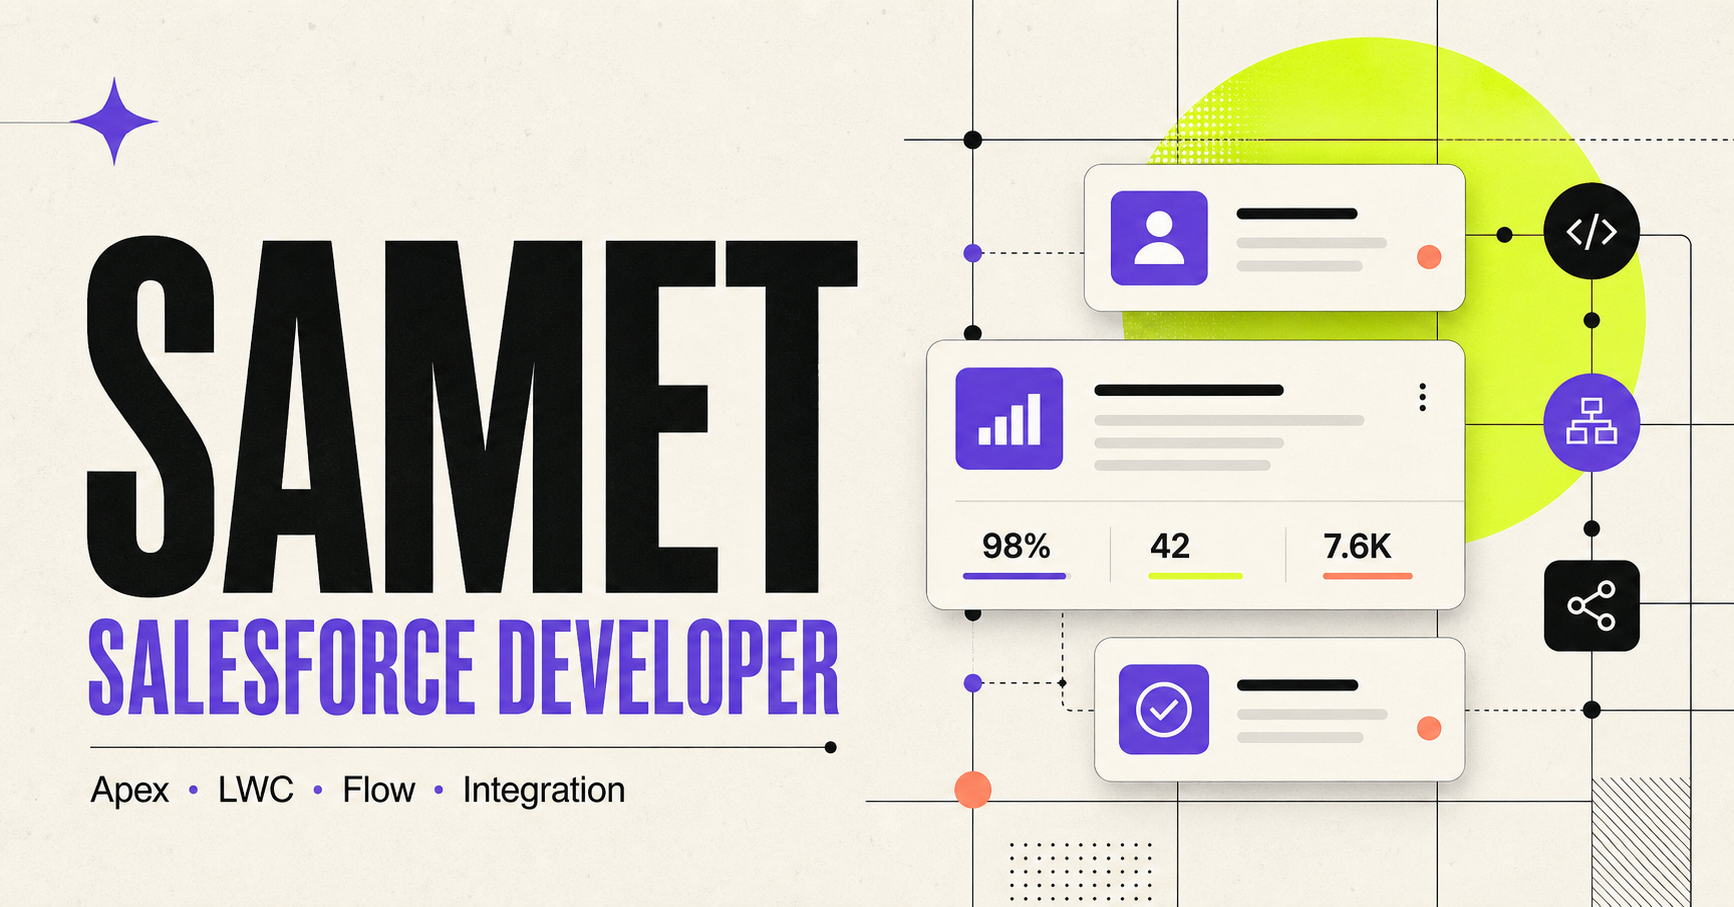
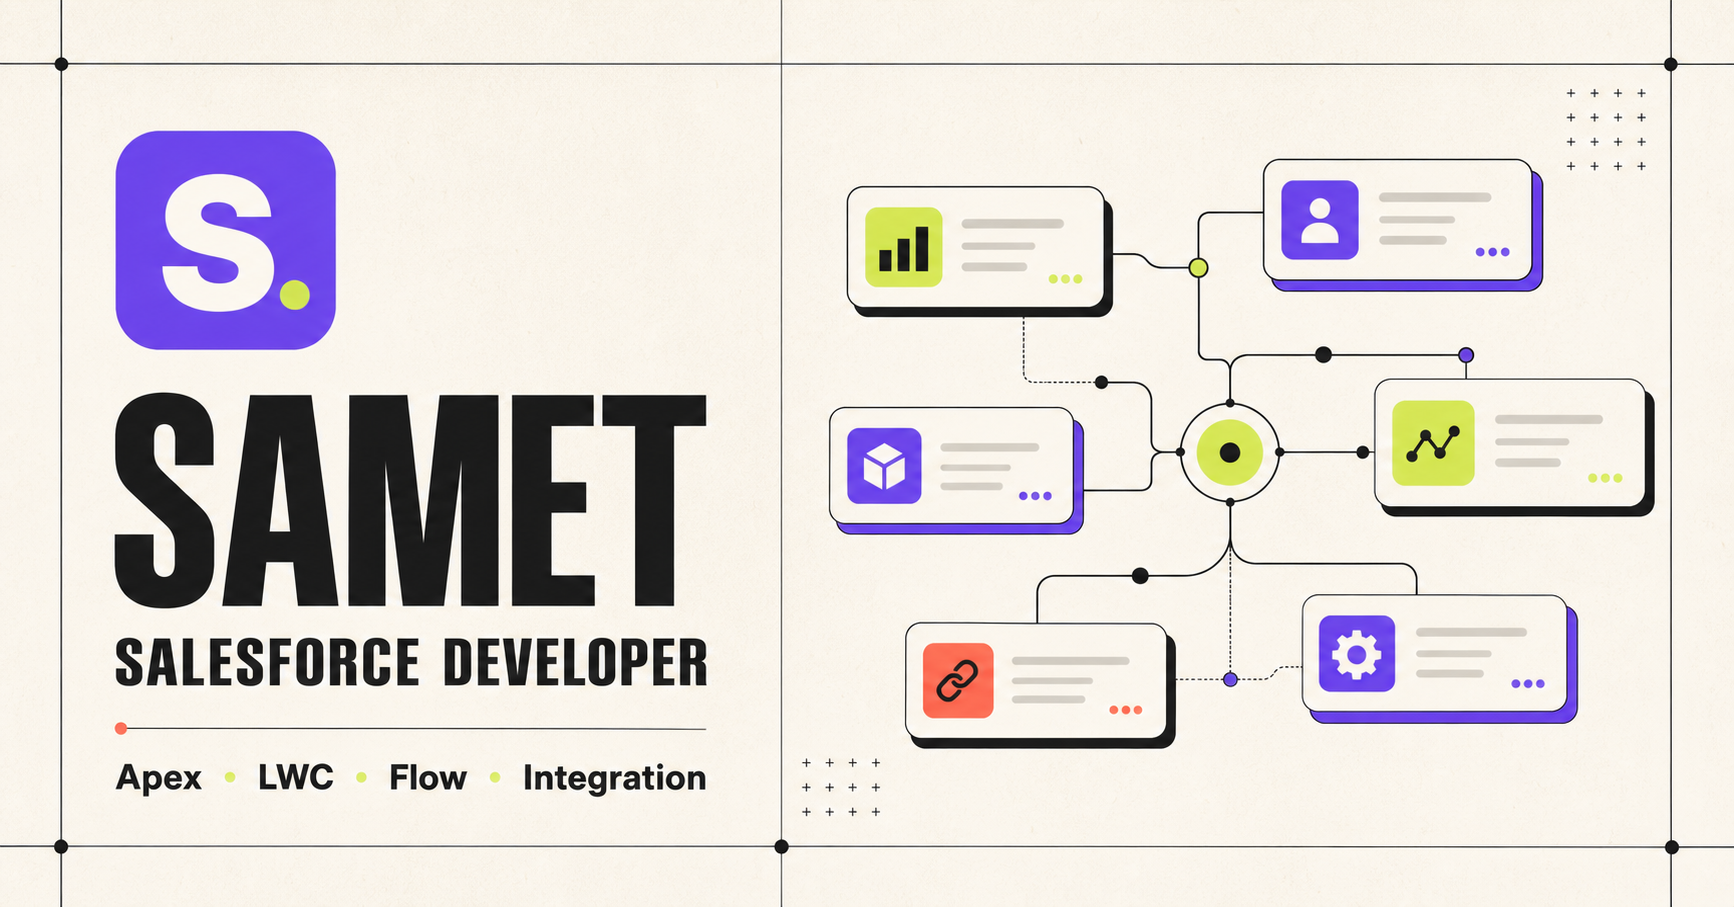
Add S brand identity and complete SEO

diff --git a/app/layout.tsx b/app/layout.tsx
@@ -14,25 +14,102 @@ const geistMono = Geist_Mono({
 
 export const metadata: Metadata = {
   metadataBase: new URL("https://aptus0.github.io"),
-  title: "Samet — Salesforce Developer",
+  title: {
+    default: "Samet | Salesforce Developer — Apex, LWC ve CRM",
+    template: "%s | Samet Salesforce Developer",
+  },
   description:
-    "Samet'in Salesforce, Apex, Lightning Web Components ve CRM otomasyonu portföyü.",
+    "Salesforce Developer Samet'in Apex, Lightning Web Components, Flow, Sales Cloud, Service Cloud ve CRM entegrasyonu projelerini keşfedin.",
+  applicationName: "Samet Salesforce Developer Portfolio",
+  authors: [{ name: "Samet", url: "https://aptus0.github.io" }],
+  creator: "Samet",
+  publisher: "Samet",
+  category: "technology",
+  keywords: [
+    "Salesforce Developer",
+    "Salesforce Geliştirici",
+    "Apex Developer",
+    "Lightning Web Components",
+    "LWC Developer",
+    "Salesforce Flow",
+    "Sales Cloud",
+    "Service Cloud",
+    "Experience Cloud",
+    "Salesforce Entegrasyonu",
+    "CRM Developer",
+    "İstanbul Salesforce Developer",
+    "Samet Salesforce",
+  ],
+  alternates: {
+    canonical: "/",
+    languages: { "tr-TR": "/" },
+  },
+  robots: {
+    index: true,
+    follow: true,
+    googleBot: {
+      index: true,
+      follow: true,
+      "max-image-preview": "large",
+      "max-snippet": -1,
+      "max-video-preview": -1,
+    },
+  },
+  referrer: "origin-when-cross-origin",
+  formatDetection: {
+    email: false,
+    address: false,
+    telephone: false,
+  },
   openGraph: {
-    title: "Samet — Salesforce Developer",
-    description: "Salesforce'u iş sonuçlarına dönüşen güçlü çözümlere dönüştürüyorum.",
+    title: "Samet | Salesforce Developer",
+    description: "Apex, LWC, Flow ve entegrasyonlarla iş sonuçları üreten Salesforce çözümleri.",
     type: "website",
     locale: "tr_TR",
-    images: [{ url: "/og.png", width: 1734, height: 907, alt: "Samet portföyü" }],
+    url: "/",
+    siteName: "Samet — Salesforce Developer",
+    images: [{ url: "/og.png", width: 1734, height: 907, alt: "Samet Salesforce Developer portföyü" }],
   },
   twitter: {
     card: "summary_large_image",
-    title: "Samet — Salesforce Developer",
-    description: "Salesforce'u iş sonuçlarına dönüşen güçlü çözümlere dönüştürüyorum.",
+    title: "Samet | Salesforce Developer",
+    description: "Apex, LWC, Flow ve entegrasyonlarla güçlü Salesforce çözümleri.",
     images: ["/og.png"],
   },
   icons: {
-    icon: "/favicon.svg",
+    icon: [{ url: "/favicon.svg", type: "image/svg+xml" }],
     shortcut: "/favicon.svg",
+    apple: "/apple-touch-icon.svg",
+  },
+  manifest: "/manifest.webmanifest",
+};
+
+const structuredData = {
+  "@context": "https://schema.org",
+  "@type": "Person",
+  "@id": "https://aptus0.github.io/#person",
+  name: "Samet",
+  url: "https://aptus0.github.io/",
+  image: "https://aptus0.github.io/og.png",
+  jobTitle: "Salesforce Developer",
+  description:
+    "Apex, Lightning Web Components, Flow ve Salesforce entegrasyonları geliştiren Salesforce Developer.",
+  knowsAbout: [
+    "Salesforce",
+    "Apex",
+    "Lightning Web Components",
+    "Salesforce Flow",
+    "Sales Cloud",
+    "Service Cloud",
+    "Experience Cloud",
+    "REST API",
+    "CRM Automation",
+  ],
+  sameAs: ["https://github.com/aptus0"],
+  address: {
+    "@type": "PostalAddress",
+    addressLocality: "İstanbul",
+    addressCountry: "TR",
   },
 };
 
@@ -43,9 +120,11 @@ export default function RootLayout({
 }>) {
   return (
     <html lang="tr">
-      <body
-        className={`${geistSans.variable} ${geistMono.variable} antialiased`}
-      >
+      <body className={`${geistSans.variable} ${geistMono.variable} antialiased`}>
+        <script
+          type="application/ld+json"
+          dangerouslySetInnerHTML={{ __html: JSON.stringify(structuredData) }}
+        />
         {children}
       </body>
     </html>

diff --git a/app/page.tsx b/app/page.tsx
@@ -39,7 +39,7 @@ export default function Home() {
     <main>
       <header className="nav shell">
         <a className="brand" href="#top" aria-label="Ana sayfa">
-          S<span>✦</span>
+          <img src="/logo.svg" alt="Samet — Salesforce Developer" />
         </a>
         <nav aria-label="Ana menü">
           <a href="#work">Projeler</a>
@@ -176,7 +176,7 @@ export default function Home() {
           <a href="mailto:hello@samet.design">hello@samet.design <span>↗</span></a>
         </div>
         <footer className="shell">
-          <a className="brand" href="#top">S<span>✦</span></a>
+          <a className="brand" href="#top" aria-label="Ana sayfaya dön"><img src="/logo.svg" alt="Samet — Salesforce Developer" /></a>
           <p>© 2026 Samet. Salesforce üzerinde özenle geliştirildi.</p>
           <div><a href="#">LinkedIn</a><a href="#">GitHub</a><a href="#">Instagram</a></div>
         </footer>

diff --git a/app/globals.css b/app/globals.css
@@ -26,8 +26,8 @@ a { color: inherit; text-decoration: none; }
   justify-content: space-between;
   border-bottom: 1px solid var(--line);
 }
-.brand { font-size: 30px; font-weight: 900; letter-spacing: -3px; }
-.brand span { color: #7857ff; font-size: 20px; vertical-align: top; margin-left: 2px; }
+.brand { display: inline-flex; align-items: center; }
+.brand img { display: block; width: 174px; height: auto; }
 .nav nav { display: flex; gap: 34px; font-size: 14px; }
 .nav nav a { transition: opacity .2s; }
 .nav nav a:hover { opacity: .55; }
@@ -160,6 +160,7 @@ footer > div { display: flex; gap: 24px; font-size: 12px; }
 @media (max-width: 800px) {
   .shell { width: min(100% - 32px, 1240px); }
   .nav { height: 76px; }
+  .brand img { width: 142px; }
   .nav nav { display: none; }
   .nav-cta { padding: 12px 14px; }
   .hero { min-height: 660px; padding-top: 55px; }

diff --git a/app/manifest.ts b/app/manifest.ts
@@ -1,0 +1,17 @@
+import type { MetadataRoute } from "next";
+
+export const dynamic = "force-static";
+
+export default function manifest(): MetadataRoute.Manifest {
+  return {
+    name: "Samet — Salesforce Developer",
+    short_name: "Samet",
+    description: "Apex, LWC, Flow ve entegrasyonlarla güçlü Salesforce çözümleri.",
+    start_url: "/",
+    display: "standalone",
+    background_color: "#f3f0e8",
+    theme_color: "#7457ee",
+    lang: "tr",
+    icons: [{ src: "/favicon.svg", sizes: "any", type: "image/svg+xml" }],
+  };
+}

diff --git a/app/sitemap.ts b/app/sitemap.ts
@@ -1,0 +1,14 @@
+import type { MetadataRoute } from "next";
+
+export const dynamic = "force-static";
+
+export default function sitemap(): MetadataRoute.Sitemap {
+  return [
+    {
+      url: "https://aptus0.github.io/",
+      lastModified: new Date("2026-07-30"),
+      changeFrequency: "monthly",
+      priority: 1,
+    },
+  ];
+}

diff --git a/app/robots.ts b/app/robots.ts
@@ -1,0 +1,11 @@
+import type { MetadataRoute } from "next";
+
+export const dynamic = "force-static";
+
+export default function robots(): MetadataRoute.Robots {
+  return {
+    rules: { userAgent: "*", allow: "/" },
+    sitemap: "https://aptus0.github.io/sitemap.xml",
+    host: "https://aptus0.github.io",
+  };
+}
